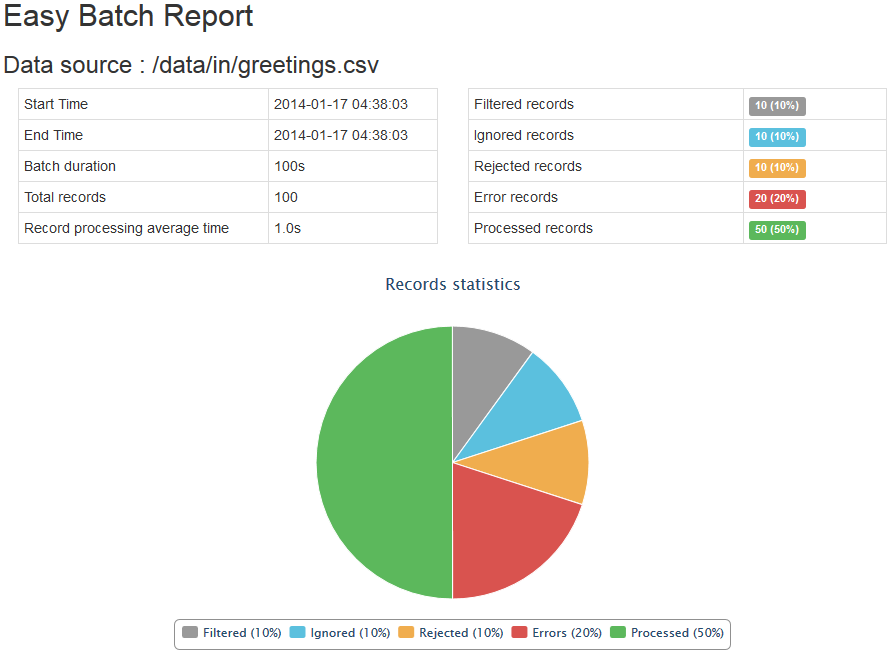
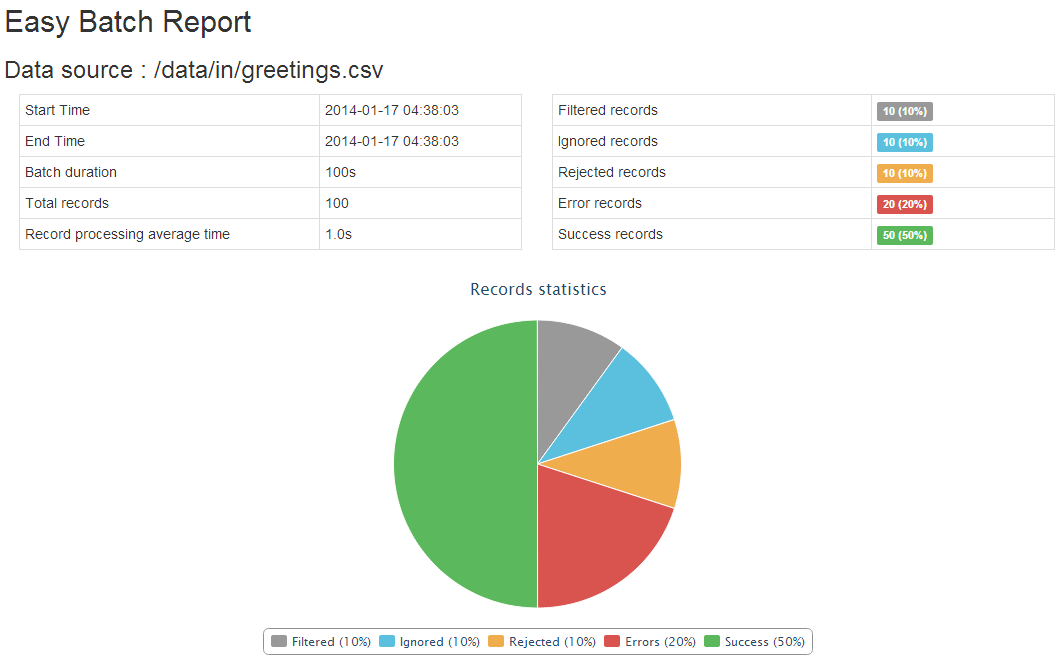
replace processed records with success records in documentation

diff --git a/site/tutorials/products.html b/site/tutorials/products.html
@@ -288,7 +288,7 @@ easyBatchReport = Easy Batch Report:
 	Ignored records = 0 (0%) []
 	Rejected records = 0 (0%) []
 	Error records = 0 (0%) []
-	Processed records = 9 (90%)
+	Success records = 9 (90%)
 	Average record processing time = 0.0s
 	Result = 2500.0
 The maximum product price for published products is : 2500.0
@@ -296,7 +296,7 @@ The maximum product price for published products is : 2500.0
                 <p>As you can see, Easy Batch generated an execution report at the end of execution containing the following information:</p>
                 <ul>
                     <li>The batch start time, end time and duration</li>
-                    <li>The data source processed</li>
+                    <li>The data source being processed</li>
                     <li>The total number of records</li>
                     <li>The total number of filtered, ignored and rejected records, records processed with errors and records processed successfully</li>
                     <li>The average record processing time</li>

diff --git a/site/documentation/userGuide.html b/site/documentation/userGuide.html
@@ -479,11 +479,10 @@ String htmlReport = new EasyBatchReportFormatter().formatEasyBatchReport(easyBat
 </pre>
                 <p>The following is a sample HTML report (click on the image for a live HTML demo):</p>
 
-                <div class="offset1" style="width:80%;height:80%;">
                     <a href="htmlReport.html" target="_blank">
-                        <img src="../resources/img/htmlReport.png" alt="htmlReport"/>
+                        <img src="../resources/img/htmlReport.png" alt="htmlReport" />
                     </a>
-                </div>
+                <br/>
                 <br/>
                 <p>To use the <code>EasyBatchHtmlReportFormatter</code>, you should add the <code>easybatch-tools</code> module to your dependencies:</p>
 <pre class="prettyprint">

diff --git a/site/documentation/htmlReport.html b/site/documentation/htmlReport.html
@@ -69,7 +69,7 @@
                     <td><span class="label label-danger">20 (20%)</span></td>
                 </tr>
                 <tr>
-                    <td>Processed records</td>
+                    <td>Success records</td>
                     <td><span class="label label-success">50 (50%)</span></td>
                 </tr>
                 </tbody>
@@ -141,7 +141,7 @@
                         y: 20
                     },
                     {
-                        name: 'Processed',
+                        name: 'Success',
                         color: '#5CB85C',
                         y: 50
                     }

diff --git a/site/tutorials/jmx.html b/site/tutorials/jmx.html
@@ -113,7 +113,7 @@
                     <li>The batch start and end times</li>
                     <li>The data source being processed</li>
                     <li>The total number of records to process</li>
-                    <li>The total number of filtered, ignored, rejected, error and processed records</li>
+                    <li>The total number of filtered, ignored, rejected, error and successfully processed records</li>
                     <li>The current record being processed</li>
                     <li>And the execution progress</li>
                 </ul>

diff --git a/site/tutorials/beanValidation.html b/site/tutorials/beanValidation.html
@@ -276,7 +276,7 @@ easyBatchReport = Easy Batch Report:
 	Ignored records = 0 (0%) []
 	<span class="text-error"><strong>Rejected records = 3 (60%) [3, 4, 5]</strong></span>
 	Error records = 0 (0%) []
-	<span class="text-success"><strong>Processed records = 1 (20%)</strong></span>
+	<span class="text-success"><strong>Success records = 1 (20%)</strong></span>
 	Average record processing time = 0.0s
 Loading products from the database...
 Product :

diff --git a/site/tutorials/customers.html b/site/tutorials/customers.html
@@ -373,7 +373,7 @@ easyBatchReport = Easy Batch Report:
 	Ignored records = 0 (0%) []
 	Rejected records = 0 (0%) []
 	Error records = 0 (0%) []
-	Processed records = 2 (100%)
+	Success records = 2 (100%)
 	Average record processing time = 0.0s
 </pre>
 
